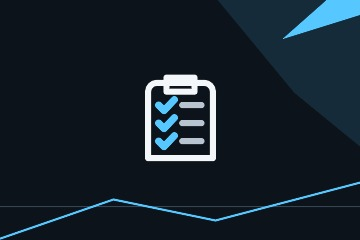
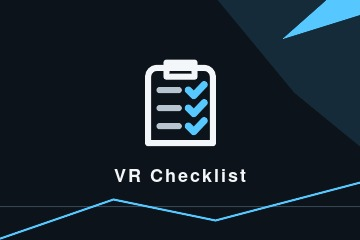
feat(branding): release right-aligned checklist mark
Move icon checks to the app-aligned right edge, add the product title to the My Library thumbnail, and publish the result as version 0.1.2.

Changed region(s): [[0.3056, 0.2333, 0.7028, 0.7583]]

diff --git a/docs/release.md b/docs/release.md
@@ -44,7 +44,7 @@ notwendige Spiegelungen gegen `VERSION` geprüft. Ein abweichender Wert lässt
 
 Entwicklungsbuilds bleiben eindeutig, indem sie die Projektversion um
 `-dev.YYYYMMDDHHMMSS` in UTC ergänzen. Beispiel:
-`0.1.1-dev.20260824153042`. Diese Kennung erscheint nur in der App; das
+`0.1.2-dev.20260824153042`. Diese Kennung erscheint nur in der App; das
 Staging-Manifest behält die veröffentlichungsfähige dreiteilige Version.
 
 Vor einer inhaltlich veränderten Veröffentlichung wird `VERSION` nach SemVer
@@ -73,10 +73,10 @@ Der Task führt nacheinander aus:
    eingebetteter Release-Version und fehlenden Source Maps.
 7. Kopie in ein versioniertes, unveränderliches Artefakt.
 
-Für `VERSION=0.1.1` entsteht standardmäßig:
+Für `VERSION=0.1.2` entsteht standardmäßig:
 
 ```text
-C:\dev\msfs2024-vr-checklist-releases\0.1.1\
+C:\dev\msfs2024-vr-checklist-releases\0.1.2\
 ├── release.json
 └── patulm-vr-checklist\
     ├── manifest.json
@@ -128,8 +128,9 @@ daher für normale Entwicklungsiterationen nicht deaktiviert werden.
 - vom MSFS-Paket verwendetes Thumbnail:
   `assets/branding/content-info-thumbnail.jpg`
 
-Das Thumbnail ist textfrei und exakt 360 × 240 Pixel groß. Dieses Format folgt
-der mit SDK 1.5.3 eingeführten
+Das Thumbnail ist exakt 360 × 240 Pixel groß und zeigt Bildmarke sowie
+Produktname, aber keinen eingebetteten Versionswert. Dieses Format folgt der
+mit SDK 1.5.3 eingeführten
 [MSFS-2024-Vorgabe für Community-My-Library-Bilder](https://docs.flightsimulator.com/msfs2024/retail/introduction/sdk-release-notes/);
 Titel, Hersteller und Version werden von MSFS daneben aus den Paketmetadaten
 dargestellt.

diff --git a/docs/design-qa.md b/docs/design-qa.md
@@ -117,18 +117,24 @@ issues:
 - Coherent GT filled the clipboard interior white even though the root SVG
   declared a transparent fill.
 
-The next candidate uses a text-free 360 × 240 thumbnail, one shared SemVer
+The `0.1.1` candidate used a text-free 360 × 240 thumbnail, one shared SemVer
 value, and explicit `fill="none"` on every icon outline. The editable sources
 remain under `../assets/branding/`; both finding screenshots are stored above.
 
+The source composition accepted for `0.1.2` moves the gray item lines to the
+left and the blue checkmarks to the right with a visible gap, matching the app's
+checklist rows. The My Library thumbnail now adds the centered product name
+`VR Checklist` below the mark. Both local original-resolution previews were
+accepted on 2026-08-24.
+
 Pending runtime checks for this revised candidate:
 
-- Confirm that My Library displays the full uncropped thumbnail and the same
-  SemVer version as the app footer.
+- Confirm that My Library displays the full uncropped thumbnail, including its
+  centered title, and the same SemVer version as the app footer.
 - Confirm the transparent clipboard interior in normal, hover, and selected
   app-list states.
 - Confirm that the revised icon remains clear in VR.
 
-current result: interaction states and VR legibility accepted for the initial
-motif; revised transparency, thumbnail crop, and unified version pending MSFS
+current result: source composition accepted for release 0.1.2; revised
+transparency, thumbnail crop/title, and unified version pending MSFS runtime
 verification

diff --git a/docs/design-decisions.md b/docs/design-decisions.md
@@ -158,14 +158,17 @@ Iteration stehen separat in `design-qa.md`.
   Hintergrund. Alle konturbasierten SVG-Pfade deklarieren `fill="none"`
   ausdrücklich, weil Coherent GT die vererbte SVG-Füllung nicht zuverlässig
   respektiert.
+- Die grauen Item-Linien stehen links und die blauen Häkchen mit sichtbarem
+  Abstand rechts. Diese Leserichtung entspricht dem Aufbau der Checklist-Zeilen
+  mit der Bestätigung am rechten Rand.
 - Die kräftigen Formen bleiben im kleinen 26 × 27-Pixel-Raster und in VR
   eindeutig lesbar. Hover-, Selected- und VR-Darstellung des ursprünglichen
   Motivs sind akzeptiert; die korrigierte Transparenz benötigt den in
   `design-qa.md` festgehaltenen Laufzeit-Gegencheck.
-- Das textfreie 360 × 240 Pixel große My-Library-Thumbnail verwendet dieselbe
-  dunkle Oberfläche, Akzentfarbe und Bildmarke wie die App. Es enthält bewusst
-  keinen eingebetteten Titel oder Versionswert, weil MSFS diese Metadaten
-  daneben darstellt und das Bild je nach Oberfläche beschneiden kann.
+- Das 360 × 240 Pixel große My-Library-Thumbnail verwendet dieselbe dunkle
+  Oberfläche, Akzentfarbe und Bildmarke wie die App. Unter der zentrierten
+  Bildmarke steht der Produktname `VR Checklist`; ein Versionswert wird nicht
+  in das Bild eingebettet.
 - Die editierbaren Branding-Quellen liegen dauerhaft unter
   `assets/branding/`. App-Build und MSFS-Staging beziehen ihre Ausgaben aus
   diesem gemeinsamen Ursprung.

diff --git a/assets/branding/README.md b/assets/branding/README.md
@@ -4,7 +4,7 @@ This directory is the editable source of truth for release branding:
 
 - `app-icon.svg` is copied into the EFB application bundle by `task build`.
 - `content-info-thumbnail.svg` is the editable 360 × 240 My Library thumbnail
-  source.
+  source with the centered product name below the checklist mark.
 - `content-info-thumbnail.jpg` is the rasterized file consumed by the MSFS
   ContentInfo package group.
 

diff --git a/CHANGELOG.md b/CHANGELOG.md
@@ -5,6 +5,15 @@ Changelog, and the project uses Semantic Versioning.
 
 ## [Unreleased]
 
+## [0.1.2] - 2026-08-24
+
+### Changed
+
+- Moved the blue app-icon checkmarks to the right of the gray item lines to
+  match the checklist row composition.
+- Added the centered `VR Checklist` product name beneath the mark in the My
+  Library thumbnail.
+
 ## [0.1.1] - 2026-08-24
 
 ### Changed
